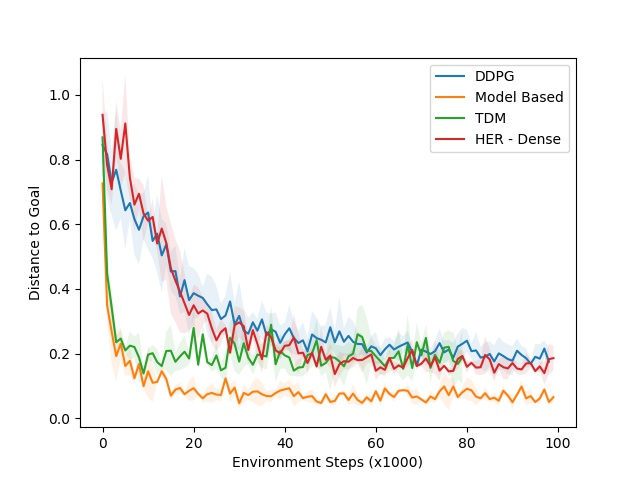
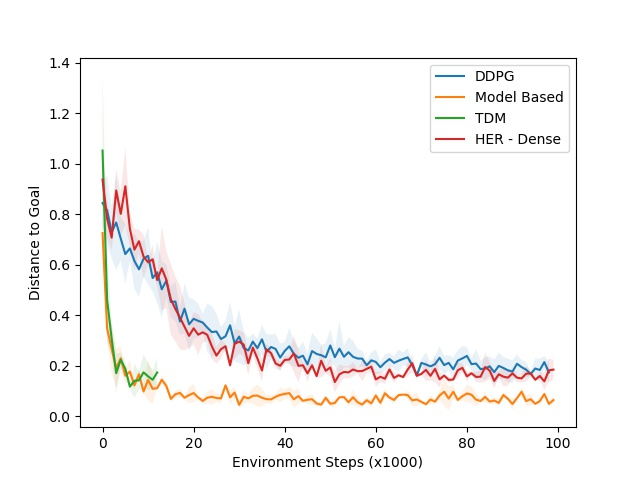
update plots

diff --git a/experiments/state_distance/iclr2018/reacher_results.py b/experiments/state_distance/iclr2018/reacher_results.py
@@ -31,6 +31,20 @@ our_criteria = {
 #     'algo_params.goal_dim_weights': [1 for _ in range(17)],
 #     'epoch_discount_schedule_params.value': 25,
 # }
+
+# our_path = "/home/vitchyr/git/rllab-rail/railrl/data/doodads3/10-26-sdql-compare-eval-expl-policy-all-envs/"
+# our_criteria = {
+#     'env_class.$class':
+#         "railrl.envs.multitask.reacher_7dof.Reacher7DofGoalStateEverything",
+#     'raw_explore_policy': 'oc',
+#     'eval_with_oc_policy': False,
+#     # 'algo_params.goal_dim_weights': [1 for _ in range(17)],
+#     # 'epoch_discount_schedule_params.value': 25,
+# }
+
+# our_path = "/home/vitchyr/git/rllab-rail/railrl/data/local/10-27-loca-sdql-reacher-get-long-results/"
+# our_criteria = None
+
 her_dense_path = "/home/vitchyr/git/rllab-rail/railrl/data/doodads3/10-27-her-baseline-shaped-rewards-no-clipping-300-300-right-discount-and-tau/"
 her_dense_criteria = {
     'algo_params.num_updates_per_env_step': 1,
@@ -58,7 +72,7 @@ plt.figure()
 for trials, name, key in [
     (ddpg_trials, 'DDPG', base_key),
     (mb_trials, 'Model Based', base_key),
-    (our_trials, 'TDM', base_key),
+    (our_trials, 'TDM', 'test_'+base_key),
     (her_dense_trials, 'HER - Dense', 'test_'+base_key),
 ]:
     all_values = []
